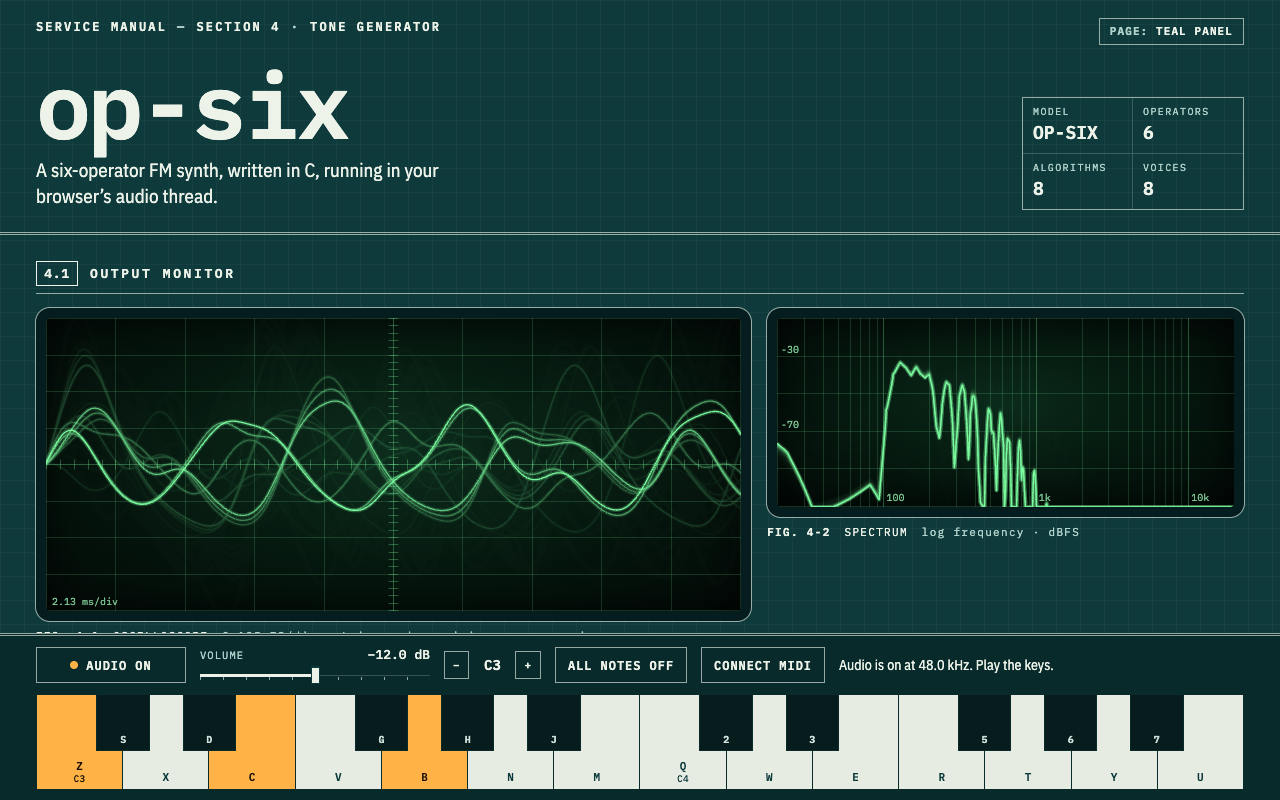
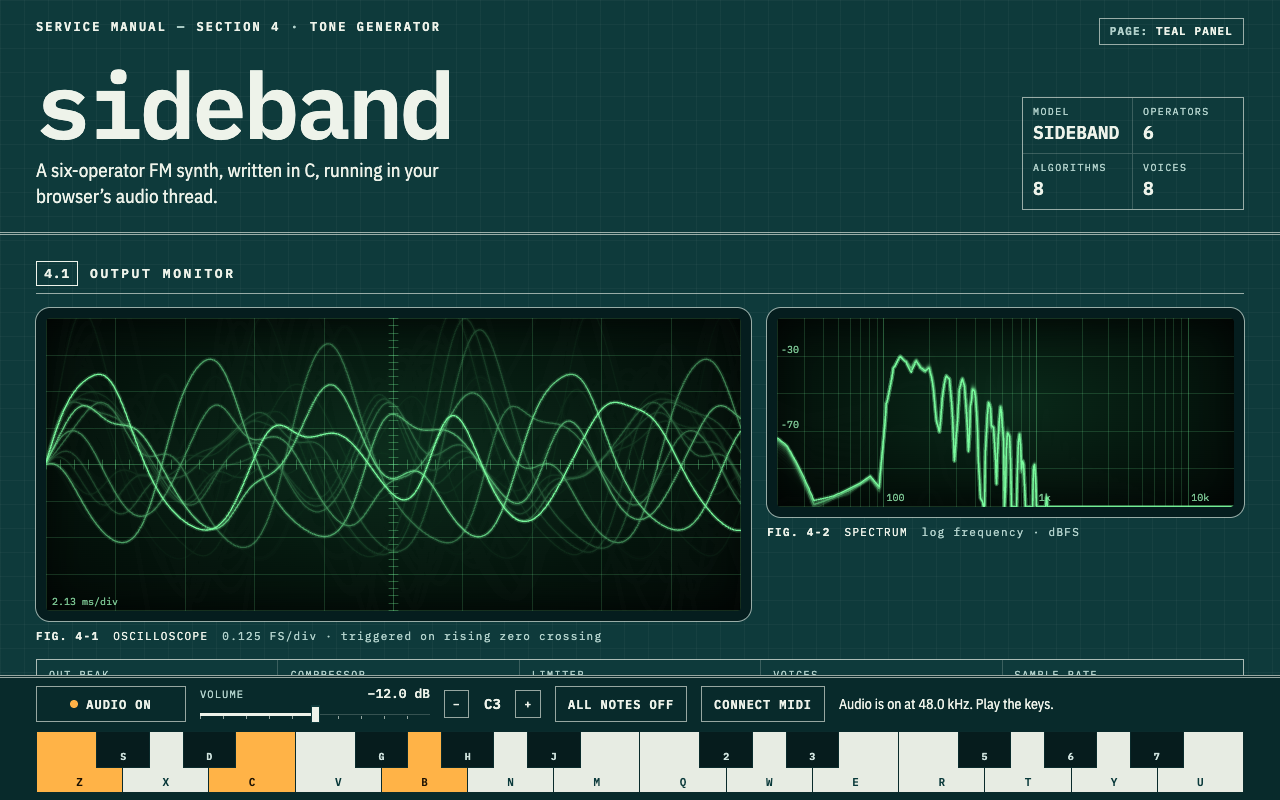
Update the README and screenshot for the fix round
Documents the smoothing, the compressor and its measured loudness
numbers, the touch unlock, the 384 kHz range, the allocation-free
worklet and the new tests, and replaces the screenshot.

diff --git a/README.md b/README.md
@@ -18,12 +18,14 @@ sideband is made in the tradition of 1980s six-operator FM synths. The name come
 
 | Part | File | What it does |
 |---|---|---|
-| DSP engine | `src/sideband.c`, `src/dspmath.h` | Freestanding C11. 8 voices × 6 operators, 8 algorithms, feedback on OP6, 4-stage envelopes, voice allocation, DC blocker, peak limiter, volume, hard ceiling. |
+| DSP engine | `src/sideband.c`, `src/dspmath.h` | Freestanding C11. 8 voices × 6 operators, 8 algorithms, feedback on OP6, 4-stage envelopes, per-sample smoothing of every edit, voice allocation, DC blocker, RMS compressor, peak limiter, volume, hard ceiling. |
 | Audio thread | `web/js/worklet.js` | An `AudioWorkletProcessor` that owns the WASM instance, applies messages between blocks and copies each 128-sample block out. |
 | Page | `web/js/*.js`, `web/index.html`, `web/styles.css` | UI only: panel, faders, diagrams, scope/spectrum drawing, keyboard, MIDI, link encoding. No DSP. |
 | Tests | `tests/c/test_sideband.c`, `tests/*.test.mjs` | C unit tests, JS tests, an offline WASM render in Node, and a headless-browser check. |
 
-**The synthesis.** Each operator is a sine oscillator (a 4096-point table with linear interpolation, built at start-up from a Taylor series) with a 32-bit phase accumulator. Its frequency is a ratio of the key (coarse 0.5, 1–31 × (1 + fine/100)) or fixed (1 Hz to about 9.8 kHz), plus up to ±20 cents of detune. A modulator's output shifts the phase of the operator below it: a full-level modulator deviates the phase by two turns. Levels step 0.75 dB. Envelope rates run from 40 s (0) to 1.5 ms (99) for a full 0–99 sweep; falling segments are straight lines in dB, and rising ones ease in towards the top so slow attacks land without a tick. Feedback feeds the average of OP6's last two samples back into itself.
+**The synthesis.** Each operator is a sine oscillator (a 4096-point table with linear interpolation, built at start-up from a Taylor series) with a 32-bit phase accumulator. Its frequency is a ratio of the key (coarse 0.5, 1–31 × (1 + fine/100)) or fixed (1 Hz to about 9.8 kHz), plus up to ±20 cents of detune. A modulator's output shifts the phase of the operator below it: a full-level modulator deviates the phase by two turns. Levels step 0.75 dB. Envelope rates run from 40 s (0) to 1.5 ms (99) for a full 0–99 sweep; falling segments are straight lines in dB, and rising ones ease in towards the top so slow attacks land without a tick. Feedback feeds the average of OP6's last two samples back into itself. An operator that would sit near or above Nyquist fades out between 0.43 and 0.47 of the sample rate instead of ringing as an aliased tone.
+
+**Nothing steps.** Every edit made while a note sounds is smoothed per sample: operator levels through two 10 ms one-pole stages, frequencies (ratio, fine, fixed, detune) through a 15 ms glide, velocity and volume likewise. Changing the algorithm under a held note crossfades the two routings over 10 ms. ALL NOTES OFF fades every voice out over 5 ms, a drone played again while it fades out comes back up from where it is, and pausing lets release tails finish before the audio context is suspended.
 
 **The algorithms** (numbering is sideband's own):
 
@@ -42,21 +44,25 @@ Carriers are mixed at 1/√(number of carriers), so switching algorithms keeps r
 
 ## Why C
 
-C is the native language of synth firmware and DSP libraries, and it fits the audio thread's rules: the inner loop must be deterministic and must never allocate. The engine is freestanding C11, with no libc, no libm and no heap. Every buffer is static, so `sideband_render()` touches no allocator, takes no locks, and always does the same bounded work (8 voices × 6 operators × 128 samples). The maths it needs (a sine table and `exp2`) is written in the file.
+C is the native language of synth firmware and DSP libraries, and it fits the audio thread's rules: the inner loop must be deterministic and must never allocate. The engine is freestanding C11, with no libc, no libm and no heap. Every buffer is static, so `sideband_render()` touches no allocator, takes no locks, and always does bounded work (8 voices × 6 operators × 128 samples, with twice the sine lookups during a 10 ms algorithm crossfade). The maths it needs (a sine table, `exp2` and `log2`) is written in the file.
 
 `zig cc -target wasm32-freestanding -nostdlib` compiles it to a self-contained WebAssembly module (no imports; the build fails if it would need any) with a fixed 256 KiB memory that can never grow. The same C file compiles natively for the unit tests, and both builds produce **bit-identical samples** for the same patch and notes: the C tests and the Node render test pin the same golden hash.
 
 ## Hearing safety
 
+- A slow RMS compressor with a wide soft knee sits before the limiter. One note of a factory voice loses at most 2.3 dB (at the E.PIANO attack); dense chords and extreme patches are pulled down, so turning the volume up for a quiet voice does not make a dense one jump out (measured below).
 - A peak limiter with instant attack holds the synth at or below −3 dBFS.
 - After the volume control, a hard ceiling clamps at −1 dBFS. Output never reaches 0 dBFS.
 - Non-finite samples (which clamped parameters should never produce; the fuzz tests check) silence every voice at once.
 - Volume starts at −12 dB and glides in from silence. It is not saved between visits and is never part of a link.
 - Every value in a link is checked and clamped in the page, and again in the C engine.
 - A released note always ends: if an envelope settles above silence, the voice fades out.
-- The **OUT PEAK** and **LIMITER** readouts are measured on the audio thread, not estimated.
+- ALL NOTES OFF fades out over 5 ms rather than cutting, and pausing lets notes ring out (up to a second) before the context is suspended.
+- The **OUT PEAK**, **COMPRESSOR** and **LIMITER** readouts are measured on the audio thread, not estimated.
 
 All of this is tested; see below.
+
+**Loudness, measured** (loudest 100 ms of the audible band at the default −12 dB volume, offline render of `dist/sideband.wasm`): one note of each factory voice lands between −31.0 and −25.6 dBFS, and the loudest of 300 random or extreme 8-note patches reaches −20.3 dBFS, 6.7 dB above the median voice. The build before the compressor measured −37.0 to −30.4 dBFS for the voices and a 14.2 dB gap. `tests/render.test.mjs` keeps the gap under 9 dB.
 
 ## Share links
 
@@ -76,27 +82,31 @@ npm run bench   # times the engine in Node on this machine
 What the tests cover:
 
 - **C unit tests** (`tests/c/test_sideband.c`, run by `scripts/test-c.mjs` twice: with trapping UndefinedBehaviorSanitizer, and at `-O2`):
-  - sine table and `exp2` accuracy against libm;
+  - sine table, `exp2` and `log2` accuracy against libm;
   - operator frequency maths, and measured pitch of rendered notes;
-  - envelope stage timings, the eased attack, rate extremes (including 40 s at 192 kHz), and that envelopes stay in range under live edits;
+  - envelope stage timings, the eased attack, rate extremes (including 40 s at 384 kHz), and that envelopes stay in range under live edits;
+  - operators fading out near Nyquist (a carrier at 67 kHz is silent, not pinned at 23.5 kHz);
+  - smoothing: a level edit moves under a tenth of the way in the first block and lands exactly; a ratio edit glides and lands on the exact increment; an algorithm change crossfades (no step larger than either sound makes on its own, and a change mid-crossfade waits); panic fades over 5 ms without a step; a drone played again mid-fade comes back up without a step;
+  - the compressor leaves a quiet note alone, pulls an 8-note chord down by more than 6 dB, never adds gain, and keeps louder input louder;
+  - pitch at 384 kHz;
   - algorithm tables against independently written graphs, the OP6-to-OP1 evaluation order, only carriers being audible, and modulation reaching a carrier exactly when the graph has a path;
   - modulation and feedback adding harmonics;
   - the limiter and ceiling under extreme patches and under ±1e6, ±Inf and NaN fed straight into the master chain;
   - volume clamping and fade-in, parameter clamping, voice allocation and stealing, drones that still end;
   - determinism and the golden hash;
-  - a fuzz run of 600 random patches (including NaN, Inf and out-of-range values) with random notes and sample rates: no NaN/Inf and nothing over the ceiling.
+  - a fuzz run of 600 random patches (including NaN, Inf and out-of-range values) with random notes and sample rates up to 384 kHz: no NaN/Inf, nothing over the ceiling, compressor gain always in (0, 1].
 - **JS tests** (`node --test`):
   - link round trips, clamping, and hostile links (22,000 random or malformed links, all bounded and safe); name cleaning; MIDI parsing;
-  - offline render of the real `dist/sideband.wasm` in Node: JS and C parameter specs agree, the drawn algorithms match the compiled routing, the golden hash matches the native build, A4 peaks at 440 Hz, every preset peaks on its key and stays under the ceiling, hostile patches at full volume stay under the ceiling;
+  - offline render of the real `dist/sideband.wasm` in Node: JS and C parameter specs agree, the drawn algorithms match the compiled routing, the golden hash matches the native build, A4 peaks at 440 Hz, every preset peaks on its key and stays under the ceiling, BASS keeps harmonics 2–5 within 12 dB of its fundamental, hostile patches at full volume stay under the ceiling, the loudness gap above, and a simulated fader drag (−47.8 dB of zipper sidebands; stepping once per block measured −21.6 dB);
   - `dist/` contents, headers and CSP, THIRD-PARTY-NOTICES, no bare deploy scripts;
   - WCAG AA contrast for every text colour pairing in both themes;
-  - headless Chrome (audio muted): no console errors at 1280 px and at a true 400 px phone width (device emulation), both themes, reduced motion; Start runs the worklet (its meter messages prove the C engine is rendering); keys play; links clamp or fail politely; MIDI denial is handled.
+  - headless Chrome (audio muted): no console errors at 1280 px and at a true 400 px phone width (device emulation), both themes, reduced motion; Start runs the worklet (its meter messages prove the C engine is rendering); keys play; links clamp or fail politely; MIDI denial is handled; and, under the strict autoplay policy (`--autoplay-policy=document-user-activation-required`) with touch emulation, the very first tap on a key unlocks the audio and plays that note.
 
 The browser test proves the audio graph runs and meters; it cannot prove what a speaker plays, because the audio is muted in headless Chrome.
 
 ## Cloudflare (free tier)
 
-sideband is a static site: `dist/` is about 110 KB in 16 files, all served as Cloudflare Pages static assets (free, unlimited requests, 20,000 files and 25 MiB per file). There is no Worker and no server logic; the DSP runs in the visitor's browser. `wrangler.toml` sets `pages_build_output_dir = "dist"` and carries no account id.
+sideband is a static site: `dist/` is about 120 KB in 16 files, all served as Cloudflare Pages static assets (free, unlimited requests, 20,000 files and 25 MiB per file). There is no Worker and no server logic; the DSP runs in the visitor's browser. `wrangler.toml` sets `pages_build_output_dir = "dist"` and carries no account id.
 
 `dist/_headers` sets a strict Content-Security-Policy (`script-src 'self' 'wasm-unsafe-eval'`, no inline code), and `Cache-Control: no-cache` so browsers revalidate the unhashed files instead of caching them for long. SharedArrayBuffer is not used, so no cross-origin isolation headers are needed.
 
@@ -107,13 +117,15 @@ For readers, the plain command would be `wrangler pages deploy dist --project-na
 - The presets were shaped by measuring offline renders (spectra, decay times, levels), then adjusted; they are starting points, not copies of any instrument.
 - Velocity scales the whole voice (0.3 + 0.7 × velocity/127). There is no per-operator velocity sensitivity, no LFO, no pitch envelope, no keyboard scaling, no sustain pedal.
 - The algorithms and envelope curves are sideband's own; it does not load patches from any other synth.
-- Operators are clamped below Nyquist, but there is no oversampling, so high ratios on high notes alias.
-- Notes and parameter changes take effect between 128-sample blocks (about 2.7 ms at 48 kHz).
-- A stolen voice keeps its phase to avoid a click, but voice stealing is not crossfaded.
-- The C engine allocates nothing; the JavaScript glue on the audio thread posts a small meter message about 20 times a second.
+- Operators fade out before Nyquist, but there is no oversampling, so a bright patch's FM sidebands can still fold back on high notes (BELL at C7, for example).
+- Notes and edits arrive between 128-sample blocks (about 2.7 ms at 48 kHz); edits then glide in per sample.
+- A stolen voice keeps its phase to avoid a click and jumps to its new pitch; voice stealing is not crossfaded.
+- On touch screens a browser only lets audio start when a finger lifts, so the very first tap sounds on release (it is queued, not lost).
+- The engine runs at 8 to 384 kHz; an audio device outside that range gets a clear message instead of an out-of-tune synth.
+- The C engine allocates nothing, and neither does the worklet's `process()`: samples are copied with plain loops, and the meter message reuses one object (`postMessage` still copies it, about 20 times a second).
 - Tested in headless Chrome only. Other browsers with AudioWorklet should work but have not been checked.
 - The page loads IBM Plex from Google Fonts; everything else is same-origin.
-- On narrow screens the MIDI button is hidden to keep the dock compact.
+- On narrow screens the MIDI button is hidden and the routine status line is visually hidden (errors still show) to keep the dock compact.
 
 ## Next
 
